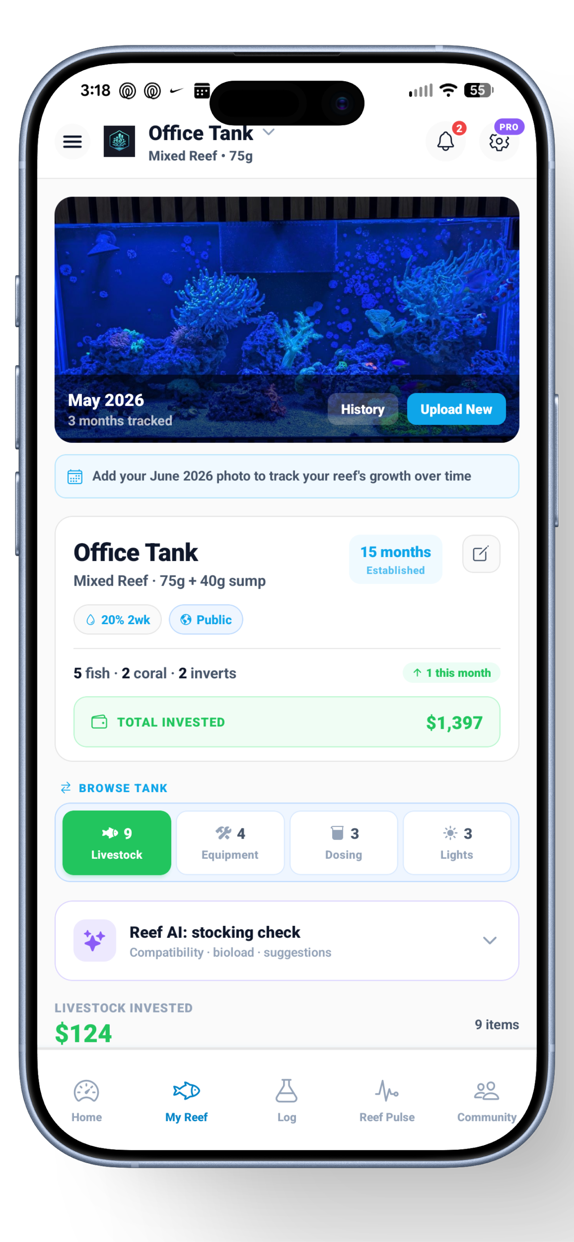
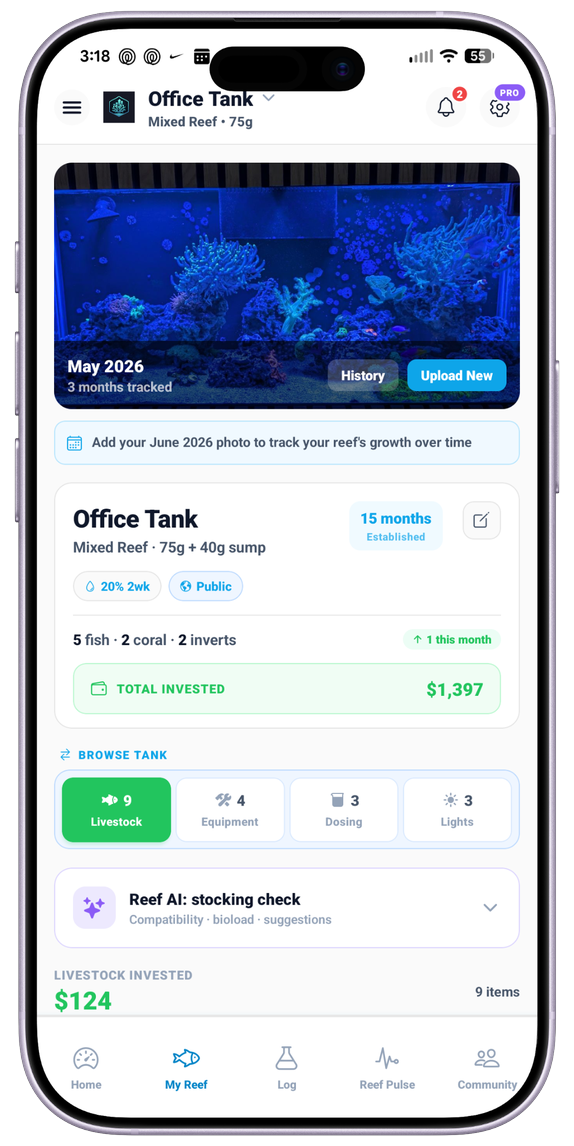
Fix My Reef phone image sizing on marketing pages

diff --git a/app/blog/my-reef-tank-tracking/page.tsx b/app/blog/my-reef-tank-tracking/page.tsx
@@ -112,7 +112,7 @@ export default function MyReefTrackingPost() {
 
         {/* Hero image */}
         <div style={{ maxWidth: "300px", margin: "0 auto 40px" }}>
-          <Image src="/screenshots/phone-my-reef-v2.png" alt="NextUpReef My Reef page showing livestock, equipment, dosing, and total tank investment" width={574} height={1242} style={{ width: "100%", height: "auto", display: "block" }} />
+          <Image src="/screenshots/phone-my-reef-v2.png" alt="NextUpReef My Reef page showing livestock, equipment, dosing, and total tank investment" width={574} height={1146} style={{ width: "100%", height: "auto", display: "block" }} />
         </div>
 
         <p style={{ fontSize: "16px", lineHeight: 1.75, color: "var(--text-muted)", marginBottom: "16px" }}>

diff --git a/app/page.tsx b/app/page.tsx
@@ -297,7 +297,7 @@ export default function HomePage() {
             </Link>
           </div>
           <div className="feature-spotlight-phone">
-            <Image src="/screenshots/phone-my-reef-v2.png" alt="NextUpReef My Reef page showing livestock, equipment, dosing, and total tank investment" width={574} height={1242} style={{ height: "auto" }} />
+            <Image src="/screenshots/phone-my-reef-v2.png" alt="NextUpReef My Reef page showing livestock, equipment, dosing, and total tank investment" width={574} height={1146} style={{ height: "auto" }} />
           </div>
         </div>
       </section>